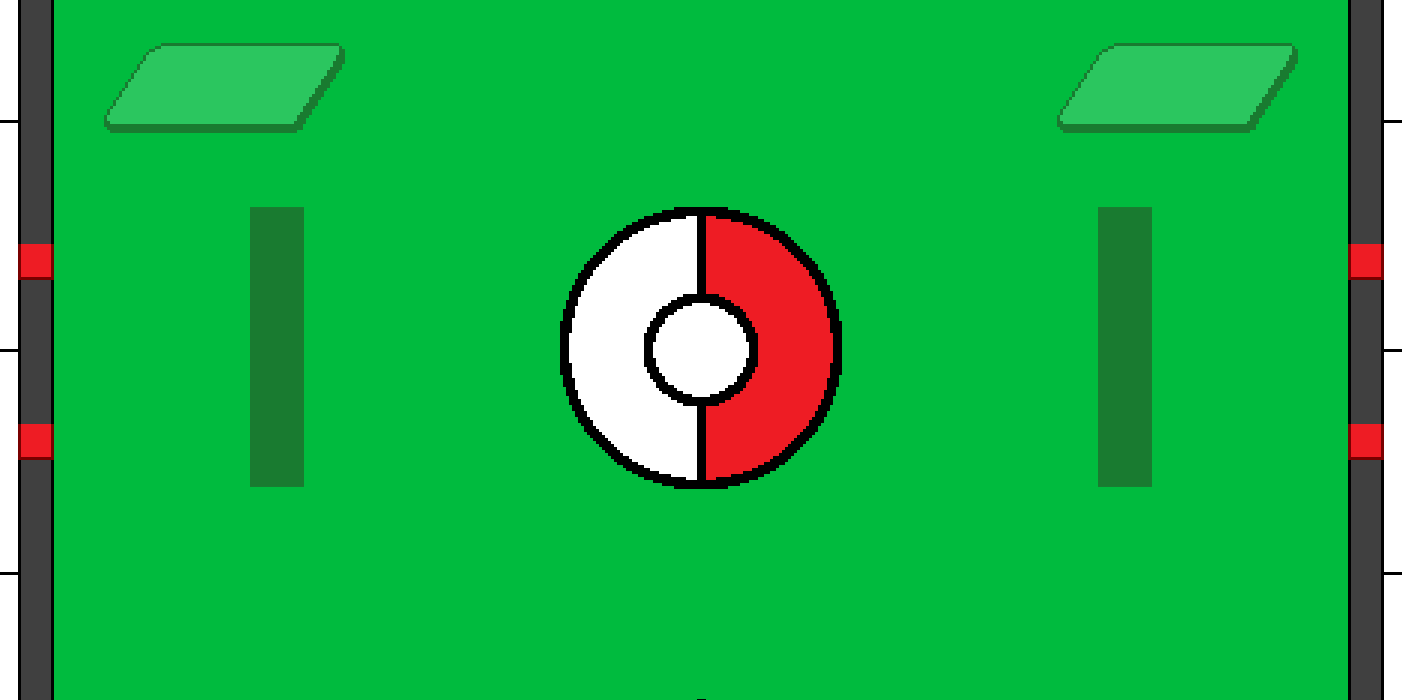
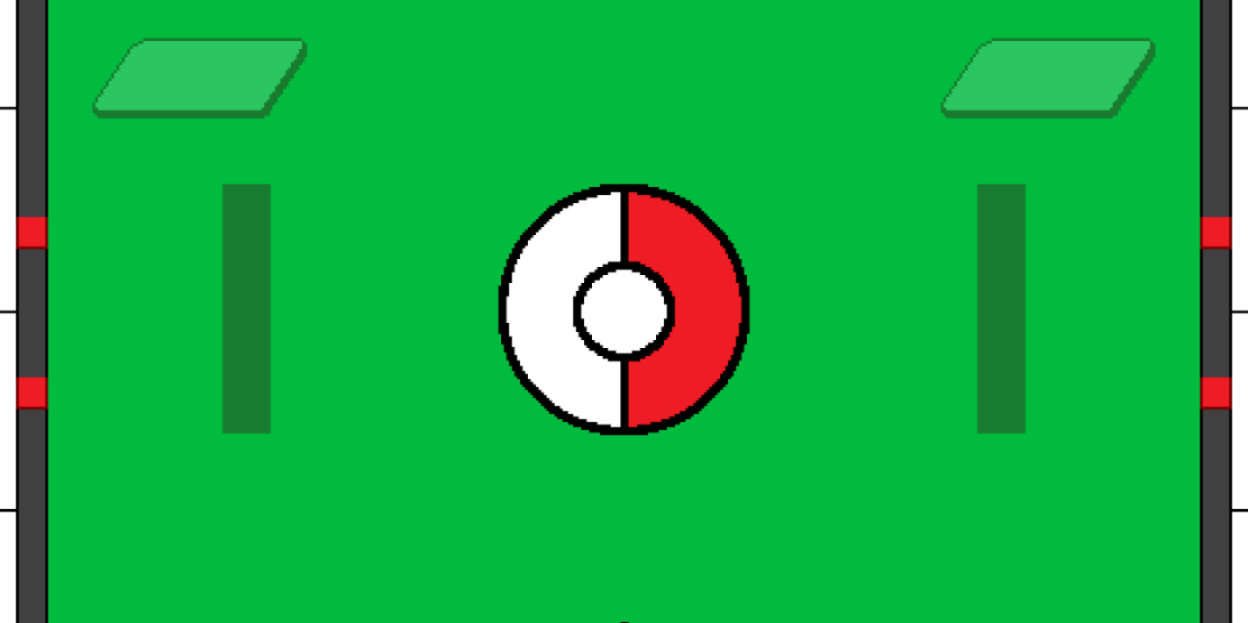
More graphics updates with some potential collision fixes

Changed region(s): [[0.4688, 0.549, 0.5, 0.5795], [0.0, 0.1525, 0.0312, 0.183]]

diff --git a/Lab4/Lab4/PongGame.cs b/Lab4/Lab4/PongGame.cs
@@ -61,87 +61,63 @@ namespace Lab4
             audioEngine.Update();
 
             gameActive = true;
-            if (Game1.gameSettings.barriers == true)
+            if (numOfUsers == 1)
             {
-                if (numOfUsers == 1)
-                {
-                    P1 = new clsPlayer(playerOneTexture, PlayerType.PlayerOne, new Vector2(graphics.PreferredBackBufferWidth - 51, (graphics.PreferredBackBufferHeight / 2) - 75), new Vector2(51, 235), new Vector2(graphics.PreferredBackBufferWidth, graphics.PreferredBackBufferHeight));
-                    P2 = new clsPlayer(playerTwoTexture, PlayerType.CPU, new Vector2(0, (graphics.PreferredBackBufferHeight / 2) - 75), new Vector2(51, 235), new Vector2(graphics.PreferredBackBufferWidth, graphics.PreferredBackBufferHeight));
-                    P1.paddle.velocity = new Vector2(0, 0);
-                    P2.paddle.velocity = new Vector2(0, -5);
+                P1 = new clsPlayer(playerOneTexture, PlayerType.PlayerOne, new Vector2(graphics.PreferredBackBufferWidth - 51, (graphics.PreferredBackBufferHeight / 2) - 75), new Vector2(51, 235), new Vector2(graphics.PreferredBackBufferWidth, graphics.PreferredBackBufferHeight));
+                P2 = new clsPlayer(playerTwoTexture, PlayerType.CPU, new Vector2(0, (graphics.PreferredBackBufferHeight / 2) - 75), new Vector2(51, 235), new Vector2(graphics.PreferredBackBufferWidth, graphics.PreferredBackBufferHeight));
+                P1.paddle.velocity = new Vector2(0, 0);
+                P2.paddle.velocity = new Vector2(0, -5);
 
+                if (Game1.gameSettings.barriers == true)
+                {
                     topBarrier = new clsSprite(barrierTexture, new Vector2((graphics.PreferredBackBufferWidth / 2) - 20, 0), new Vector2(40, 150), graphics.PreferredBackBufferWidth, graphics.PreferredBackBufferHeight);
                     topBarrier.velocity = new Vector2(0, 2);
                     botBarrier = new clsSprite(barrierTexture, new Vector2((graphics.PreferredBackBufferWidth / 2) - 20, graphics.PreferredBackBufferHeight - 150), new Vector2(40, 150), graphics.PreferredBackBufferWidth, graphics.PreferredBackBufferHeight);
                     botBarrier.velocity = new Vector2(0, -2);
-
-                    gameBall = new clsSprite(gameBallTexture, new Vector2((graphics.PreferredBackBufferWidth / 2) - 32, (graphics.PreferredBackBufferHeight / 2) - 32), new Vector2(64, 64), graphics.PreferredBackBufferWidth, graphics.PreferredBackBufferHeight);
-                    gameBall.velocity = new Vector2(randPowerUp.Next(5, 7), randPowerUp.Next(-2, 3));
-                    if(gameBall.velocity.Y == 0)
-                    {
-                        gameBall.velocity = new Vector2(gameBall.velocity.X, randPowerUp.Next(-3, -1));
-                    }
-
-                    ballSpeedUp = new clsPowerUp(ballSpeedUpTexure, new Vector2((int)randPowerUp.Next(0, graphics.PreferredBackBufferWidth), (int)randPowerUp.Next(0, graphics.PreferredBackBufferHeight)), new Vector2(32, 32), graphics.PreferredBackBufferWidth, graphics.PreferredBackBufferHeight, clsPowerUp.PowerUpType.BallSpeedUp);
-                    ballSpeedDown = new clsPowerUp(ballSpeedDownTexture, new Vector2((int)randPowerUp.Next(0, graphics.PreferredBackBufferWidth), (int)randPowerUp.Next(0, graphics.PreferredBackBufferHeight)), new Vector2(32, 32), graphics.PreferredBackBufferWidth, graphics.PreferredBackBufferHeight, clsPowerUp.PowerUpType.BallSpeedDown);
-                    barrierSpeedUp = new clsPowerUp(barrierSpeedUpTexture, new Vector2((int)randPowerUp.Next(0, graphics.PreferredBackBufferWidth), (int)randPowerUp.Next(0, graphics.PreferredBackBufferHeight)), new Vector2(32, 32), graphics.PreferredBackBufferWidth, graphics.PreferredBackBufferHeight, clsPowerUp.PowerUpType.BarrierSpeedUp);
-                    barrierSpeedDown = new clsPowerUp(barrierSpeedDownTexture, new Vector2((int)randPowerUp.Next(0, graphics.PreferredBackBufferWidth), (int)randPowerUp.Next(0, graphics.PreferredBackBufferHeight)), new Vector2(32, 32), graphics.PreferredBackBufferWidth, graphics.PreferredBackBufferHeight, clsPowerUp.PowerUpType.BarrierSpeedDown);
-
-
                 }
-                else
+                gameBall = new clsSprite(gameBallTexture, new Vector2((graphics.PreferredBackBufferWidth / 2) - 32, (graphics.PreferredBackBufferHeight / 2) - 32), new Vector2(32, 32), graphics.PreferredBackBufferWidth, graphics.PreferredBackBufferHeight);
+                gameBall.velocity = new Vector2(randPowerUp.Next(5, 7), randPowerUp.Next(-2, 3));
+                if (gameBall.velocity.Y == 0)
                 {
-                    P1 = new clsPlayer(playerOneTexture, PlayerType.PlayerOne, new Vector2(graphics.PreferredBackBufferWidth - 60, (graphics.PreferredBackBufferHeight / 2) - 75), new Vector2(40, 150), new Vector2(graphics.PreferredBackBufferWidth, graphics.PreferredBackBufferHeight));
-                    P2 = new clsPlayer(playerOneTexture, PlayerType.PlayerTwo, new Vector2(0, (graphics.PreferredBackBufferHeight / 2) - 75), new Vector2(40, 150), new Vector2(graphics.PreferredBackBufferWidth, graphics.PreferredBackBufferHeight));
-                    P1.paddle.velocity = new Vector2(0, 0);
-                    P2.paddle.velocity = new Vector2(0, 5);
+                    gameBall.velocity = new Vector2(gameBall.velocity.X, randPowerUp.Next(-3, -1));
+                }
 
-                    topBarrier = new clsSprite(barrierTexture, new Vector2((graphics.PreferredBackBufferWidth / 2) - 20, 0), new Vector2(40, 150), graphics.PreferredBackBufferWidth, graphics.PreferredBackBufferHeight);
-                    topBarrier.velocity = new Vector2(0, 2);
-                    botBarrier = new clsSprite(barrierTexture, new Vector2((graphics.PreferredBackBufferWidth / 2) - 20, graphics.PreferredBackBufferHeight - 150), new Vector2(40, 150), graphics.PreferredBackBufferWidth, graphics.PreferredBackBufferHeight);
-                    botBarrier.velocity = new Vector2(0, -2);
-
-                    gameBall = new clsSprite(gameBallTexture, new Vector2((graphics.PreferredBackBufferWidth / 2) - 32, (graphics.PreferredBackBufferHeight / 2) - 32), new Vector2(64, 64), graphics.PreferredBackBufferWidth, graphics.PreferredBackBufferHeight);
-                    gameBall.velocity = new Vector2(-2, -2);
-
+                if (Game1.gameSettings.powerUps == true)
+                {
                     ballSpeedUp = new clsPowerUp(ballSpeedUpTexure, new Vector2((int)randPowerUp.Next(0, graphics.PreferredBackBufferWidth), (int)randPowerUp.Next(0, graphics.PreferredBackBufferHeight)), new Vector2(32, 32), graphics.PreferredBackBufferWidth, graphics.PreferredBackBufferHeight, clsPowerUp.PowerUpType.BallSpeedUp);
                     ballSpeedDown = new clsPowerUp(ballSpeedDownTexture, new Vector2((int)randPowerUp.Next(0, graphics.PreferredBackBufferWidth), (int)randPowerUp.Next(0, graphics.PreferredBackBufferHeight)), new Vector2(32, 32), graphics.PreferredBackBufferWidth, graphics.PreferredBackBufferHeight, clsPowerUp.PowerUpType.BallSpeedDown);
                     barrierSpeedUp = new clsPowerUp(barrierSpeedUpTexture, new Vector2((int)randPowerUp.Next(0, graphics.PreferredBackBufferWidth), (int)randPowerUp.Next(0, graphics.PreferredBackBufferHeight)), new Vector2(32, 32), graphics.PreferredBackBufferWidth, graphics.PreferredBackBufferHeight, clsPowerUp.PowerUpType.BarrierSpeedUp);
                     barrierSpeedDown = new clsPowerUp(barrierSpeedDownTexture, new Vector2((int)randPowerUp.Next(0, graphics.PreferredBackBufferWidth), (int)randPowerUp.Next(0, graphics.PreferredBackBufferHeight)), new Vector2(32, 32), graphics.PreferredBackBufferWidth, graphics.PreferredBackBufferHeight, clsPowerUp.PowerUpType.BarrierSpeedDown);
-
                 }
+
             }
             else
             {
-                if (numOfUsers == 1)
+                P1 = new clsPlayer(playerOneTexture, PlayerType.PlayerOne, new Vector2(graphics.PreferredBackBufferWidth - 60, (graphics.PreferredBackBufferHeight / 2) - 75), new Vector2(40, 150), new Vector2(graphics.PreferredBackBufferWidth, graphics.PreferredBackBufferHeight));
+                P2 = new clsPlayer(playerOneTexture, PlayerType.PlayerTwo, new Vector2(0, (graphics.PreferredBackBufferHeight / 2) - 75), new Vector2(40, 150), new Vector2(graphics.PreferredBackBufferWidth, graphics.PreferredBackBufferHeight));
+                P1.paddle.velocity = new Vector2(0, 0);
+                P2.paddle.velocity = new Vector2(0, 5);
+
+                if (Game1.gameSettings.barriers == true)
                 {
-                    P1 = new clsPlayer(playerOneTexture, PlayerType.PlayerOne, new Vector2(graphics.PreferredBackBufferWidth - 40, (graphics.PreferredBackBufferHeight / 2) - 75), new Vector2(40, 150), new Vector2(graphics.PreferredBackBufferWidth, graphics.PreferredBackBufferHeight));
-                    P2 = new clsPlayer(playerOneTexture, PlayerType.CPU, new Vector2(0, (graphics.PreferredBackBufferHeight / 2) - 75), new Vector2(40, 150), new Vector2(graphics.PreferredBackBufferWidth, graphics.PreferredBackBufferHeight));
-                    P1.paddle.velocity = new Vector2(0, 0);
-                    P2.paddle.velocity = new Vector2(0, 0);
-                    gameBall = new clsSprite(gameBallTexture, new Vector2((graphics.PreferredBackBufferWidth / 2) - 32, (graphics.PreferredBackBufferHeight / 2) - 32), new Vector2(64, 64), graphics.PreferredBackBufferWidth, graphics.PreferredBackBufferHeight);
-                    gameBall.velocity = new Vector2(-5, -5);
-
-                    ballSpeedUp = new clsPowerUp(ballSpeedUpTexure, new Vector2((int)randPowerUp.Next(0, graphics.PreferredBackBufferWidth), (int)randPowerUp.Next(0, graphics.PreferredBackBufferHeight)), new Vector2(32, 32), graphics.PreferredBackBufferWidth, graphics.PreferredBackBufferHeight, clsPowerUp.PowerUpType.BallSpeedUp);
-                    ballSpeedDown = new clsPowerUp(ballSpeedDownTexture, new Vector2((int)randPowerUp.Next(0, graphics.PreferredBackBufferWidth), (int)randPowerUp.Next(0, graphics.PreferredBackBufferHeight)), new Vector2(32, 32), graphics.PreferredBackBufferWidth, graphics.PreferredBackBufferHeight, clsPowerUp.PowerUpType.BallSpeedDown);
-                    barrierSpeedUp = new clsPowerUp(barrierSpeedUpTexture, new Vector2((int)randPowerUp.Next(0, graphics.PreferredBackBufferWidth), (int)randPowerUp.Next(0, graphics.PreferredBackBufferHeight)), new Vector2(32, 32), graphics.PreferredBackBufferWidth, graphics.PreferredBackBufferHeight, clsPowerUp.PowerUpType.BarrierSpeedUp);
-                    barrierSpeedDown = new clsPowerUp(barrierSpeedDownTexture, new Vector2((int)randPowerUp.Next(0, graphics.PreferredBackBufferWidth), (int)randPowerUp.Next(0, graphics.PreferredBackBufferHeight)), new Vector2(32, 32), graphics.PreferredBackBufferWidth, graphics.PreferredBackBufferHeight, clsPowerUp.PowerUpType.BarrierSpeedDown);
-
+                    topBarrier = new clsSprite(barrierTexture, new Vector2((graphics.PreferredBackBufferWidth / 2) - 20, 0), new Vector2(40, 150), graphics.PreferredBackBufferWidth, graphics.PreferredBackBufferHeight);
+                    topBarrier.velocity = new Vector2(0, 2);
+                    botBarrier = new clsSprite(barrierTexture, new Vector2((graphics.PreferredBackBufferWidth / 2) - 20, graphics.PreferredBackBufferHeight - 150), new Vector2(40, 150), graphics.PreferredBackBufferWidth, graphics.PreferredBackBufferHeight);
+                    botBarrier.velocity = new Vector2(0, -2);
                 }
-                else
+                gameBall = new clsSprite(gameBallTexture, new Vector2((graphics.PreferredBackBufferWidth / 2) - 32, (graphics.PreferredBackBufferHeight / 2) - 32), new Vector2(64, 64), graphics.PreferredBackBufferWidth, graphics.PreferredBackBufferHeight);
+                gameBall.velocity = new Vector2(randPowerUp.Next(5, 7), randPowerUp.Next(-2, 3));
+                if (gameBall.velocity.Y == 0)
                 {
-                    P1 = new clsPlayer(playerOneTexture, PlayerType.PlayerOne, new Vector2(graphics.PreferredBackBufferWidth - 60, (graphics.PreferredBackBufferHeight / 2) - 75), new Vector2(40, 150), new Vector2(graphics.PreferredBackBufferWidth, graphics.PreferredBackBufferHeight));
-                    P2 = new clsPlayer(playerOneTexture, PlayerType.PlayerTwo, new Vector2(0, (graphics.PreferredBackBufferHeight / 2) - 75), new Vector2(40, 150), new Vector2(graphics.PreferredBackBufferWidth, graphics.PreferredBackBufferHeight));
-                    P1.paddle.velocity = new Vector2(0, 0);
-                    P2.paddle.velocity = new Vector2(0, 5);
-                    gameBall = new clsSprite(gameBallTexture, new Vector2((graphics.PreferredBackBufferWidth / 2) - 32, (graphics.PreferredBackBufferHeight / 2) - 32), new Vector2(64, 64), graphics.PreferredBackBufferWidth, graphics.PreferredBackBufferHeight);
-                    gameBall.velocity = new Vector2(-2, -2);
+                    gameBall.velocity = new Vector2(gameBall.velocity.X, randPowerUp.Next(-3, -1));
+                }
 
+                if (Game1.gameSettings.powerUps == true)
+                {
                     ballSpeedUp = new clsPowerUp(ballSpeedUpTexure, new Vector2((int)randPowerUp.Next(0, graphics.PreferredBackBufferWidth), (int)randPowerUp.Next(0, graphics.PreferredBackBufferHeight)), new Vector2(32, 32), graphics.PreferredBackBufferWidth, graphics.PreferredBackBufferHeight, clsPowerUp.PowerUpType.BallSpeedUp);
                     ballSpeedDown = new clsPowerUp(ballSpeedDownTexture, new Vector2((int)randPowerUp.Next(0, graphics.PreferredBackBufferWidth), (int)randPowerUp.Next(0, graphics.PreferredBackBufferHeight)), new Vector2(32, 32), graphics.PreferredBackBufferWidth, graphics.PreferredBackBufferHeight, clsPowerUp.PowerUpType.BallSpeedDown);
                     barrierSpeedUp = new clsPowerUp(barrierSpeedUpTexture, new Vector2((int)randPowerUp.Next(0, graphics.PreferredBackBufferWidth), (int)randPowerUp.Next(0, graphics.PreferredBackBufferHeight)), new Vector2(32, 32), graphics.PreferredBackBufferWidth, graphics.PreferredBackBufferHeight, clsPowerUp.PowerUpType.BarrierSpeedUp);
                     barrierSpeedDown = new clsPowerUp(barrierSpeedDownTexture, new Vector2((int)randPowerUp.Next(0, graphics.PreferredBackBufferWidth), (int)randPowerUp.Next(0, graphics.PreferredBackBufferHeight)), new Vector2(32, 32), graphics.PreferredBackBufferWidth, graphics.PreferredBackBufferHeight, clsPowerUp.PowerUpType.BarrierSpeedDown);
-
                 }
             }
         }
@@ -195,35 +171,47 @@ namespace Lab4
             }
             if (P1.paddle.Collides(gameBall))
             {
-                ballCue = soundsBank.GetCue("BallHit");
-                ballCue.Play();
-                gameBall.velocity = new Vector2(-gameBall.velocity.X, randPowerUp.Next(-2, 3));
-                if (gameBall.velocity.Y == 0)
+                if (!P1.paddle.Collides(gameBall))
                 {
-                    gameBall.velocity = new Vector2(gameBall.velocity.X, randPowerUp.Next(-3, -1));
+                    ballCue = soundsBank.GetCue("BallHit");
+                    ballCue.Play();
+                    gameBall.velocity = new Vector2(-gameBall.velocity.X, randPowerUp.Next(-2, 3));
+                    if (gameBall.velocity.Y == 0)
+                    {
+                        gameBall.velocity = new Vector2(gameBall.velocity.X, randPowerUp.Next(-3, -1));
+                    }
                 }
             }
             if (P2.paddle.Collides(gameBall))
             {
-                ballCue = soundsBank.GetCue("BallHit");
-                ballCue.Play();
-                gameBall.velocity = new Vector2(-gameBall.velocity.X, randPowerUp.Next(-2, 3));
-                if (gameBall.velocity.Y == 0)
+                if (!P2.paddle.Collides(gameBall))
                 {
-                    gameBall.velocity = new Vector2(gameBall.velocity.X, randPowerUp.Next(-3, -1));
+                    ballCue = soundsBank.GetCue("BallHit");
+                    ballCue.Play();
+                    gameBall.velocity = new Vector2(-gameBall.velocity.X, randPowerUp.Next(-2, 3));
+                    if (gameBall.velocity.Y == 0)
+                    {
+                        gameBall.velocity = new Vector2(gameBall.velocity.X, randPowerUp.Next(-3, -1));
+                    }
                 }
             }
             if (botBarrier.Collides(gameBall))
             {
-                ballCue = soundsBank.GetCue("BallHit");
-                ballCue.Play();
-                gameBall.velocity *= -1;
+                if (!botBarrier.Collides(gameBall))
+                {
+                    ballCue = soundsBank.GetCue("BallHit");
+                    ballCue.Play();
+                    gameBall.velocity *= -1;
+                }
             }
             if (topBarrier.Collides(gameBall))
             {
-                ballCue = soundsBank.GetCue("BallHit");
-                ballCue.Play();
-                gameBall.velocity *= -1;
+                if (!topBarrier.Collides(gameBall))
+                {
+                    ballCue = soundsBank.GetCue("BallHit");
+                    ballCue.Play();
+                    gameBall.velocity *= -1;
+                }
             }
             if (P1.score == 10 || P2.score == 10)
             {

diff --git a/Lab4/Lab4/Game1.cs b/Lab4/Lab4/Game1.cs
@@ -182,7 +182,7 @@ namespace Lab4
             P1Game = new Lab4.PongGame(Content.Load<Texture2D>("paddle-ash"), Content.Load<Texture2D>("paddle-gary"), Content.Load<Texture2D>("Paddles"), Content.Load<Texture2D>("pokeball"), 
                 Content.Load<Texture2D>(/*"ballSpeedUp"*/"ball1"), Content.Load<Texture2D>(/*"ballSpeedDown"*/"ball1"), Content.Load<Texture2D>(/*"barrierSpeedUp"*/"ball1"), Content.Load<Texture2D>(/*"barrierSpeedDown"*/"ball1"), graphics, 1);
 
-            P2Game = new Lab4.PongGame(Content.Load<Texture2D>("Paddles"), Content.Load<Texture2D>("Paddles"), Content.Load<Texture2D>("Paddles"), Content.Load<Texture2D>("pokeball"),
+            P2Game = new Lab4.PongGame(Content.Load<Texture2D>("paddle-ash"), Content.Load<Texture2D>("paddle-gary"), Content.Load<Texture2D>("Paddles"), Content.Load<Texture2D>("pokeball"),
                 Content.Load<Texture2D>(/*"ballSpeedUp"*/"ball1"), Content.Load<Texture2D>(/*"ballSpeedDown"*/"ball1"), Content.Load<Texture2D>(/*"barrierSpeedUp"*/"ball1"), Content.Load<Texture2D>(/*"barrierSpeedDown"*/"ball1"), graphics, 2);
 
             //Load 2D Content into the Sprites
@@ -202,7 +202,7 @@ namespace Lab4
             mainMenuQuit.setPosition(new Vector2(400, 442));
             #endregion
 
-            gymSprite = new clsSprite(Content.Load<Texture2D>("gym"),
+            gymSprite = new clsSprite(Content.Load<Texture2D>("gym2"),
                                 new Vector2(0f, 0f), new Vector2(graphics.PreferredBackBufferWidth, graphics.PreferredBackBufferHeight), graphics.PreferredBackBufferWidth, graphics.PreferredBackBufferHeight);
             creditScreen = new clsSprite(Content.Load<Texture2D>("menu-credits"),
                                 new Vector2(0f, 0f), new Vector2(graphics.PreferredBackBufferWidth, graphics.PreferredBackBufferHeight), graphics.PreferredBackBufferWidth, graphics.PreferredBackBufferHeight);

diff --git a/Lab4/Lab4/README.md b/Lab4/Lab4/README.md
@@ -2,7 +2,6 @@
 ~ Implement all themed screens with proper button placement
 ~ Find a way to display end of game message 
 ~ Implement PowerUps
-~ Differnt AI difficulties
 ~ Proper Ball-Paddle interaction
 ~ Instructions Screen before 1P
 ~ Instructions Screen before 2P
